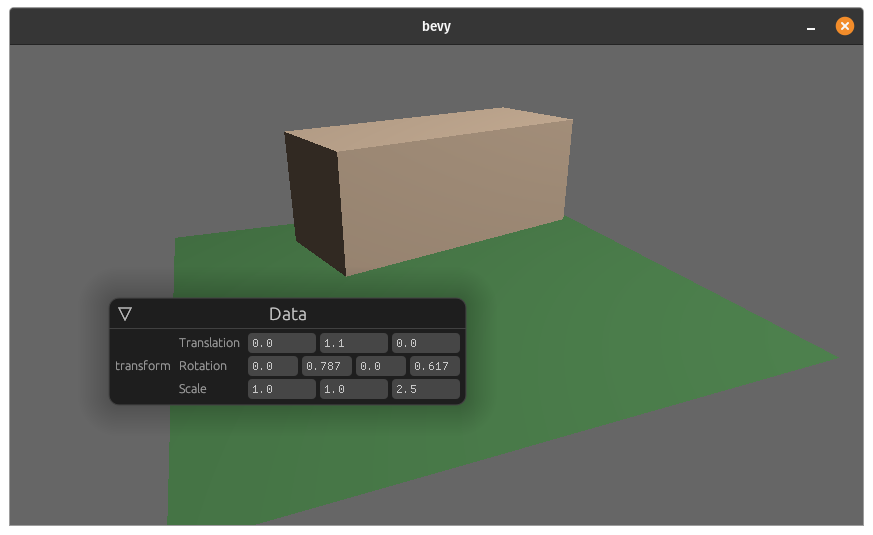
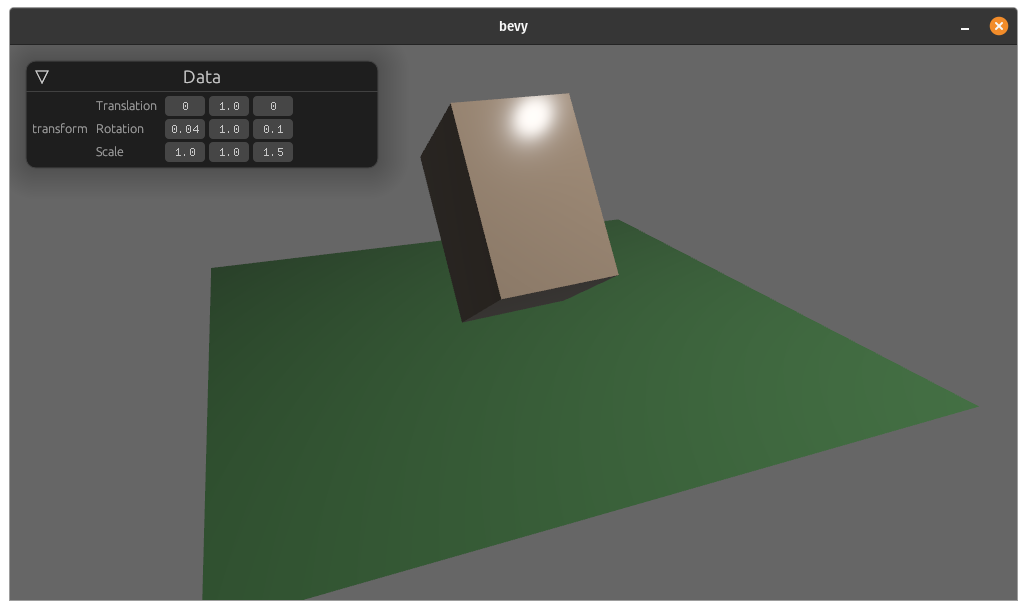
rotation uses euler by default, alternatively ypr, axis_angle or raw

diff --git a/src/impls/quat.rs b/src/impls/quat.rs
@@ -1,0 +1,147 @@
+use bevy::{prelude::*, utils::HashMap};
+use bevy_egui::egui;
+
+use crate::{Context, Inspectable};
+
+#[derive(Clone)]
+pub struct QuatAttributes {
+    pub display: QuatDisplay,
+}
+
+#[derive(Copy, Clone)]
+pub enum QuatDisplay {
+    Raw,
+    Euler,
+    YawPitchRoll,
+    AxisAngle,
+}
+
+impl Default for QuatAttributes {
+    fn default() -> Self {
+        QuatAttributes {
+            display: QuatDisplay::Euler,
+        }
+    }
+}
+
+enum QuatEditState {
+    Euler(Vec3),
+    YawPitchRoll((f32, f32, f32)),
+    AxisAngle((Vec3, f32)),
+}
+#[derive(Default)]
+struct QuatEditStates(HashMap<egui::Id, QuatEditState>);
+
+impl Inspectable for Quat {
+    type Attributes = QuatAttributes;
+
+    fn ui(&mut self, ui: &mut egui::Ui, options: Self::Attributes, context: &Context) {
+        match options.display {
+            QuatDisplay::Raw => {
+                let mut vec4 = Vec4::from(*self);
+                ui.vertical(|ui| vec4.ui(ui, Default::default(), context));
+                *self = Quat::from(vec4).normalize();
+            }
+            QuatDisplay::Euler => {
+                let world = expect_world!(ui, context, "Quat");
+                let mut states = world.get_resource_or_insert_with(QuatEditStates::default);
+                let state = states
+                    .0
+                    .entry(context.id())
+                    .or_insert(QuatEditState::Euler(to_euler_angles(*self)));
+
+                let euler_angles = match state {
+                    QuatEditState::Euler(euler) => euler,
+                    _ => unreachable!("invalid quat edit state"),
+                };
+
+                euler_angles.ui(ui, Default::default(), context);
+
+                *self = from_euler_angles(*euler_angles);
+            }
+            QuatDisplay::YawPitchRoll => {
+                let world = expect_world!(ui, context, "Quat");
+                let mut states = world.get_resource_or_insert_with(QuatEditStates::default);
+                let state = states
+                    .0
+                    .entry(context.id())
+                    .or_insert(QuatEditState::YawPitchRoll(yaw_pitch_roll(*self)));
+
+                let (yaw, pitch, roll) = match state {
+                    QuatEditState::YawPitchRoll((y, p, r)) => (y, p, r),
+                    _ => unreachable!("invalid quat edit state"),
+                };
+
+                ui.vertical(|ui| {
+                    egui::Grid::new("ypr grid").show(ui, |ui| {
+                        ui.label("Yaw");
+                        ui.drag_angle(yaw);
+                        ui.end_row();
+                        ui.label("Pitch");
+                        ui.drag_angle(pitch);
+                        ui.end_row();
+                        ui.label("Roll");
+                        ui.drag_angle(roll);
+                        ui.end_row();
+                    });
+                });
+
+                *self = Quat::from_rotation_ypr(*yaw, *pitch, *roll);
+            }
+            QuatDisplay::AxisAngle => {
+                let world = expect_world!(ui, context, "Quat");
+                let mut states = world.get_resource_or_insert_with(QuatEditStates::default);
+                let state = states
+                    .0
+                    .entry(context.id())
+                    .or_insert(QuatEditState::AxisAngle(self.to_axis_angle()));
+
+                let (axis, angle) = match state {
+                    QuatEditState::AxisAngle((axis, angle)) => (axis, angle),
+                    _ => unreachable!("invalid quat edit state"),
+                };
+
+                ui.vertical(|ui| {
+                    egui::Grid::new("axis-angle quat").show(ui, |ui| {
+                        ui.label("Axis");
+                        axis.ui(ui, Default::default(), context);
+                        ui.end_row();
+                        ui.label("Angle");
+                        ui.drag_angle(angle);
+                        ui.end_row();
+                    });
+                });
+                *self = Quat::from_axis_angle(axis.normalize(), *angle);
+            }
+        }
+    }
+}
+
+// yaw - Z, pitch - Y, roll - X
+fn to_euler_angles(val: Quat) -> Vec3 {
+    let (yaw, pitch, roll) = yaw_pitch_roll(val);
+    Vec3::new(roll, pitch, yaw)
+}
+fn from_euler_angles(val: Vec3) -> Quat {
+    let yaw = val.z;
+    let pitch = val.y;
+    let roll = val.x;
+    Quat::from_rotation_ypr(yaw, pitch, roll)
+}
+
+fn yaw_pitch_roll(q: Quat) -> (f32, f32, f32) {
+    let [x, y, z, w] = *q.as_ref();
+
+    fn atan2(a: f32, b: f32) -> f32 {
+        a.atan2(b)
+    }
+    fn asin(a: f32) -> f32 {
+        a.asin()
+    }
+
+    let yaw = atan2(2.0 * (y * z + w * x), w * w - x * x - y * y + z * z);
+    let pitch = asin(-2.0 * (x * z - w * y));
+    let roll = atan2(2.0 * (x * y + w * z), w * w + x * x - y * y - z * z);
+
+    (yaw, pitch, roll)
+}

diff --git a/examples/quaternion.rs b/examples/quaternion.rs
@@ -1,15 +1,29 @@
 use bevy::prelude::*;
-use bevy_inspector_egui::{Inspectable, InspectorPlugin};
+use bevy_inspector_egui::{options::QuatDisplay, Inspectable, InspectorPlugin};
 
-#[derive(Inspectable, Debug)]
+#[derive(Inspectable, Default)]
 struct Data {
-    transform: Transform,
+    #[inspectable(display = QuatDisplay::Euler)]
+    euler: Quat,
+    #[inspectable(display = QuatDisplay::YawPitchRoll)]
+    ypr: Quat,
+    #[inspectable(display = QuatDisplay::AxisAngle)]
+    axis_angle: Quat,
+    #[inspectable(display = QuatDisplay::Raw)]
+    raw: Quat,
+    which_one: WhichOne,
 }
-impl Default for Data {
+
+#[derive(Inspectable)]
+enum WhichOne {
+    Euler,
+    YawPitchRoll,
+    AxisAngle,
+    Raw,
+}
+impl Default for WhichOne {
     fn default() -> Self {
-        Data {
-            transform: Transform::from_xyz(0.0, 1.0, 0.0),
-        }
+        WhichOne::Euler
     }
 }
 
@@ -25,7 +39,12 @@ fn main() {
 
 fn update(data: Res<Data>, mut query: Query<(&Cube, &mut Transform)>) {
     for (_, mut transform) in query.iter_mut() {
-        *transform = data.transform;
+        match data.which_one {
+            WhichOne::Euler => transform.rotation = data.euler,
+            WhichOne::Raw => transform.rotation = data.raw,
+            WhichOne::YawPitchRoll => transform.rotation = data.ypr,
+            WhichOne::AxisAngle => transform.rotation = data.axis_angle,
+        }
     }
 }
 
@@ -54,7 +73,7 @@ fn setup(
         ..Default::default()
     });
     commands.spawn_bundle(PerspectiveCameraBundle {
-        transform: Transform::from_xyz(-2.0, 2.5, 5.0).looking_at(Vec3::default(), Vec3::Y),
+        transform: Transform::from_xyz(-2.0, 2.5, 5.0).looking_at(Vec3::ZERO, Vec3::Y),
         ..Default::default()
     });
 }

diff --git a/src/impls/bevy_impls.rs b/src/impls/bevy_impls.rs
@@ -89,17 +89,6 @@ impl Inspectable for shape::Box {
 
 //////// COMPONENTS ////////
 
-impl Inspectable for Quat {
-    type Attributes = NumberAttributes<[f32; 4]>;
-
-    fn ui(&mut self, ui: &mut egui::Ui, options: Self::Attributes, context: &Context) {
-        let options = options.map(|arr| Vec4::from(*arr));
-        let mut vec4 = Vec4::from(*self);
-        vec4.ui(ui, options, context);
-        *self = vec4.into();
-    }
-}
-
 impl Inspectable for Transform {
     type Attributes = ();
 

diff --git a/src/impls/mod.rs b/src/impls/mod.rs
@@ -2,6 +2,7 @@ mod bevy_impls;
 mod list;
 mod number;
 mod primitives;
+mod quat;
 mod ui;
 mod vec;
 pub(crate) mod with_context;
@@ -9,6 +10,7 @@ pub(crate) mod with_context;
 pub use bevy_impls::ColorAttributes;
 pub use number::NumberAttributes;
 pub use primitives::{OptionAttributes, StringAttributes};
+pub use quat::{QuatAttributes, QuatDisplay};
 pub use vec::Vec2dAttributes;
 pub use with_context::{FilterType, TextureAttributes};
 

diff --git a/CHANGELOG.md b/CHANGELOG.md
@@ -46,6 +46,7 @@
 - show `Vec2` as two number fields by default, use `#[inspectable(visual)]` for old behaviour
 - properly give ids to egui
 - mark inspected components in the world inspector as mutated
+- quaternions are now displayed as euler angles by default
 
 ### Fixed
 
